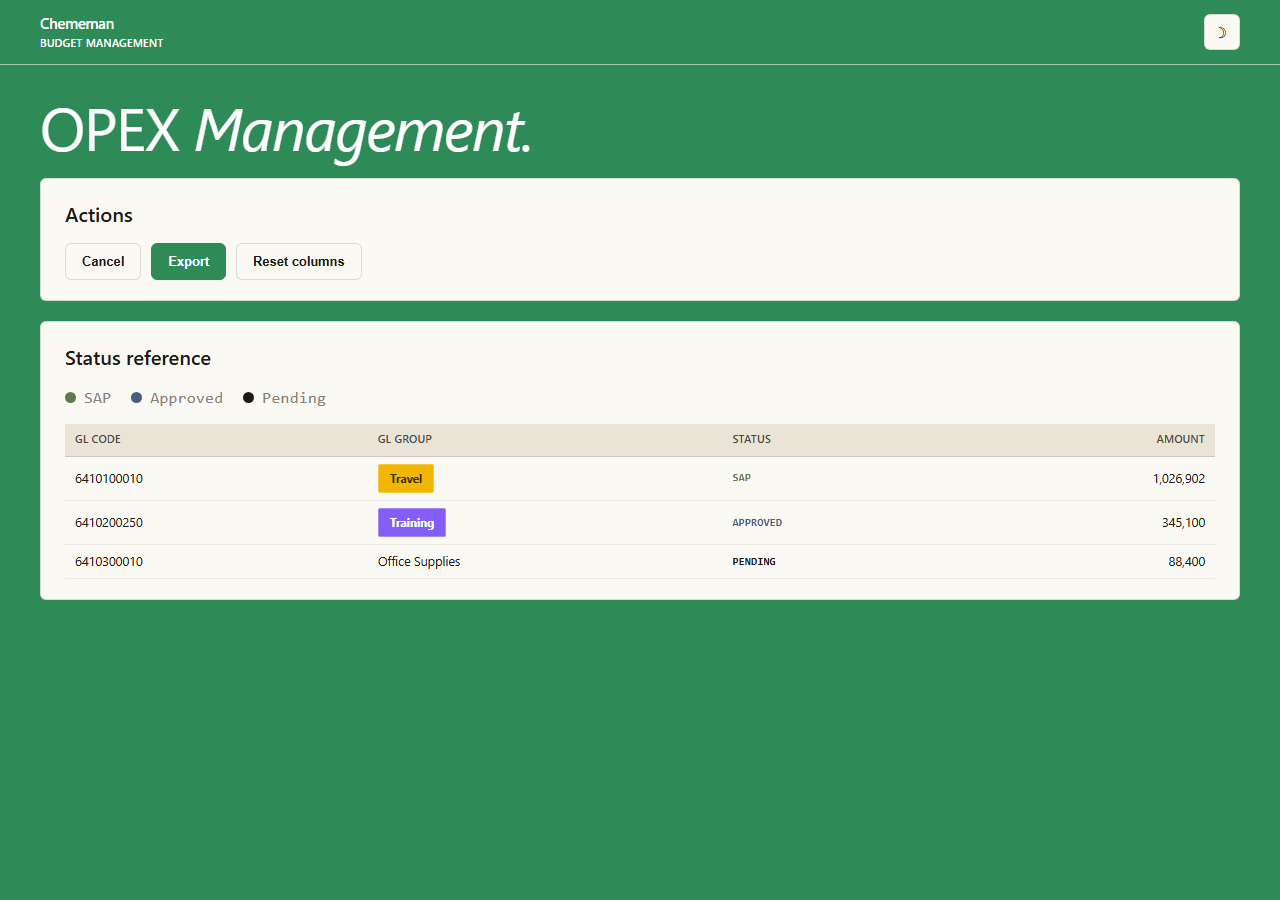
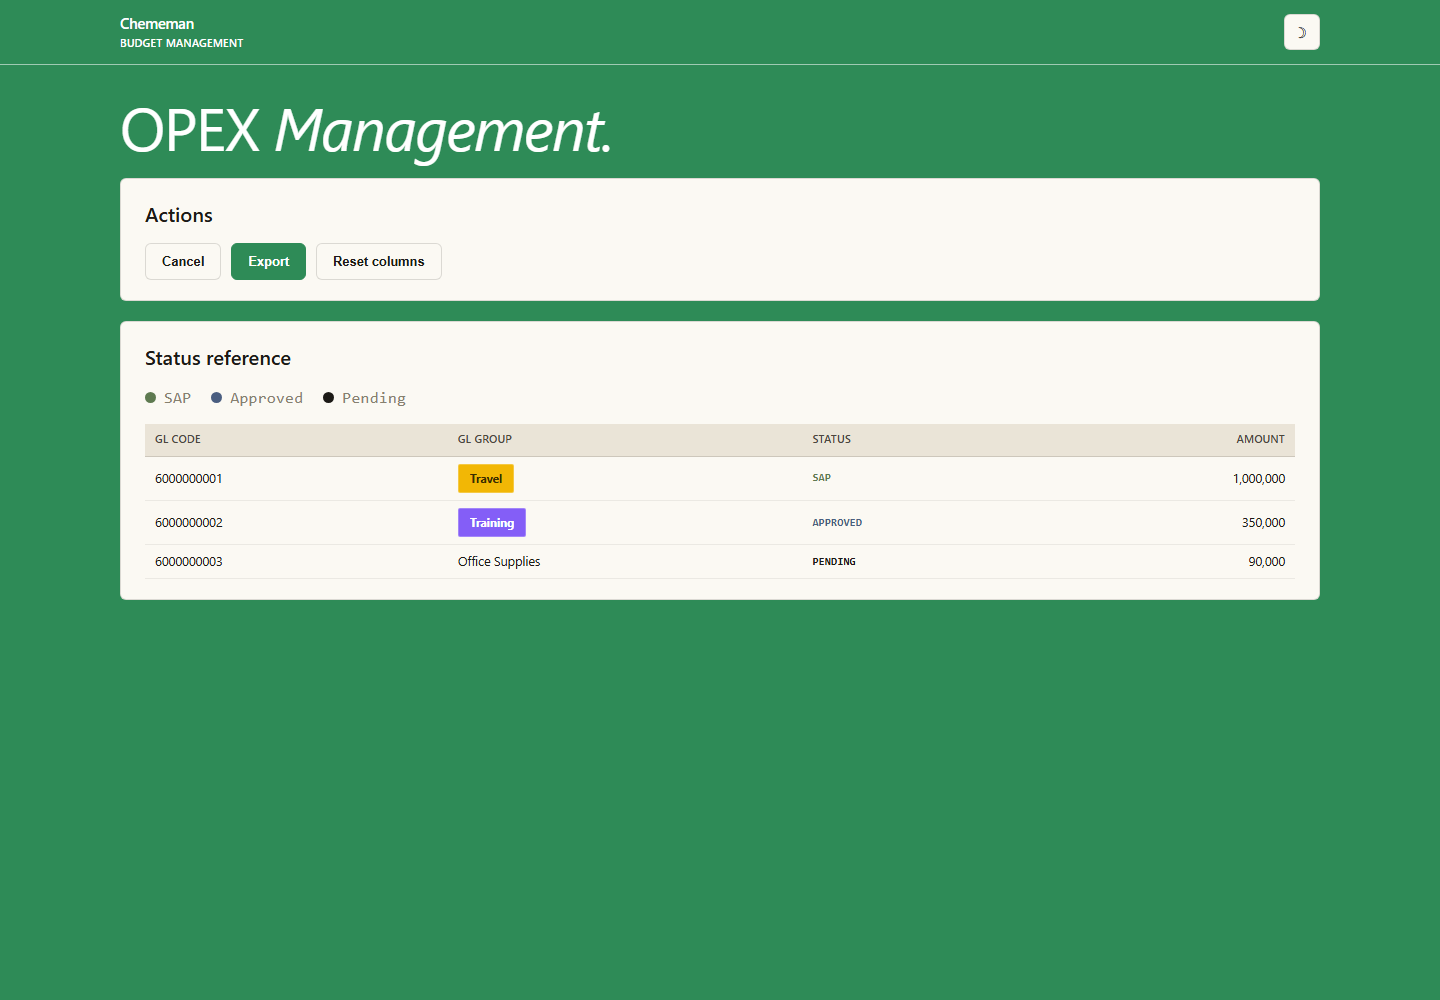
fix(examples): scrub real GL codes and SAP figures from the demo page
The demo table shipped three real chart-of-accounts codes and a real SAP
actuals total (1,026,902 — the live FY2025 figure), plus 6410200250, a GL
the budget app deliberately hides. None of that belongs in a shared design
-system repo whose whole point is to be dropped into other projects.

Replaced with invented placeholders (6000000001-3, round amounts) and a
comment saying why, so the next person does not paste production numbers
back in. Re-rendered the screenshot from the scrubbed page and added
tools/shot-app-shell.py so regenerating it is a one-liner instead of an
ad-hoc script.

Changed region(s): [[0.0, 0.0, 1.0, 0.6844]]

diff --git a/examples/app-shell.html b/examples/app-shell.html
@@ -120,22 +120,26 @@
         </thead>
         <tbody>
           <tr>
-            <td>6410100010</td>
+            <!-- Sample rows only. GL codes and amounts here are INVENTED
+                 placeholders — never paste real chart-of-accounts codes or
+                 real SAP figures into a design-system demo, this repo is
+                 shared. -->
+            <td>6000000001</td>
             <td><span class="gl-chip travel">Travel</span></td>
             <td class="status-cell sap">SAP</td>
-            <td style="text-align:right;">1,026,902</td>
+            <td style="text-align:right;">1,000,000</td>
           </tr>
           <tr>
-            <td>6410200250</td>
+            <td>6000000002</td>
             <td><span class="gl-chip training">Training</span></td>
             <td class="status-cell approved">Approved</td>
-            <td style="text-align:right;">345,100</td>
+            <td style="text-align:right;">350,000</td>
           </tr>
           <tr>
-            <td>6410300010</td>
+            <td>6000000003</td>
             <td>Office Supplies</td>
             <td class="status-cell pending">Pending</td>
-            <td style="text-align:right;">88,400</td>
+            <td style="text-align:right;">90,000</td>
           </tr>
         </tbody>
       </table>

diff --git a/tools/shot-app-shell.py b/tools/shot-app-shell.py
@@ -1,0 +1,44 @@
+"""Re-render examples/app-shell.png from examples/app-shell.html.
+
+Run after any change to the demo page or the tokens it consumes:
+    python -X utf8 tools/shot-app-shell.py
+
+Headless Chromium via Playwright; writes the PNG next to the HTML. The image
+is a review artifact for humans — the script never opens it.
+"""
+import pathlib
+import sys
+
+from playwright.sync_api import sync_playwright
+
+ROOT = pathlib.Path(__file__).resolve().parent.parent
+PAGE = ROOT / 'examples' / 'app-shell.html'
+OUT = ROOT / 'examples' / 'app-shell.png'
+
+
+def main() -> int:
+    if not PAGE.exists():
+        print(f'missing {PAGE}')
+        return 1
+    with sync_playwright() as p:
+        browser = p.chromium.launch()
+        page = browser.new_page(viewport={'width': 1440, 'height': 1000})
+        errors = []
+        page.on('console', lambda m: errors.append(m.text) if m.type == 'error' else None)
+        page.goto(PAGE.as_uri())
+        page.wait_for_timeout(400)
+        shell = page.evaluate(
+            "getComputedStyle(document.body).getPropertyValue('background-color')"
+        )
+        page.screenshot(path=str(OUT), full_page=True)
+        browser.close()
+    print(f'body background: {shell}')
+    print(f'console errors : {len(errors)}')
+    for e in errors[:5]:
+        print(f'  {e}')
+    print(f'wrote {OUT} ({OUT.stat().st_size} bytes)')
+    return 0
+
+
+if __name__ == '__main__':
+    sys.exit(main())
